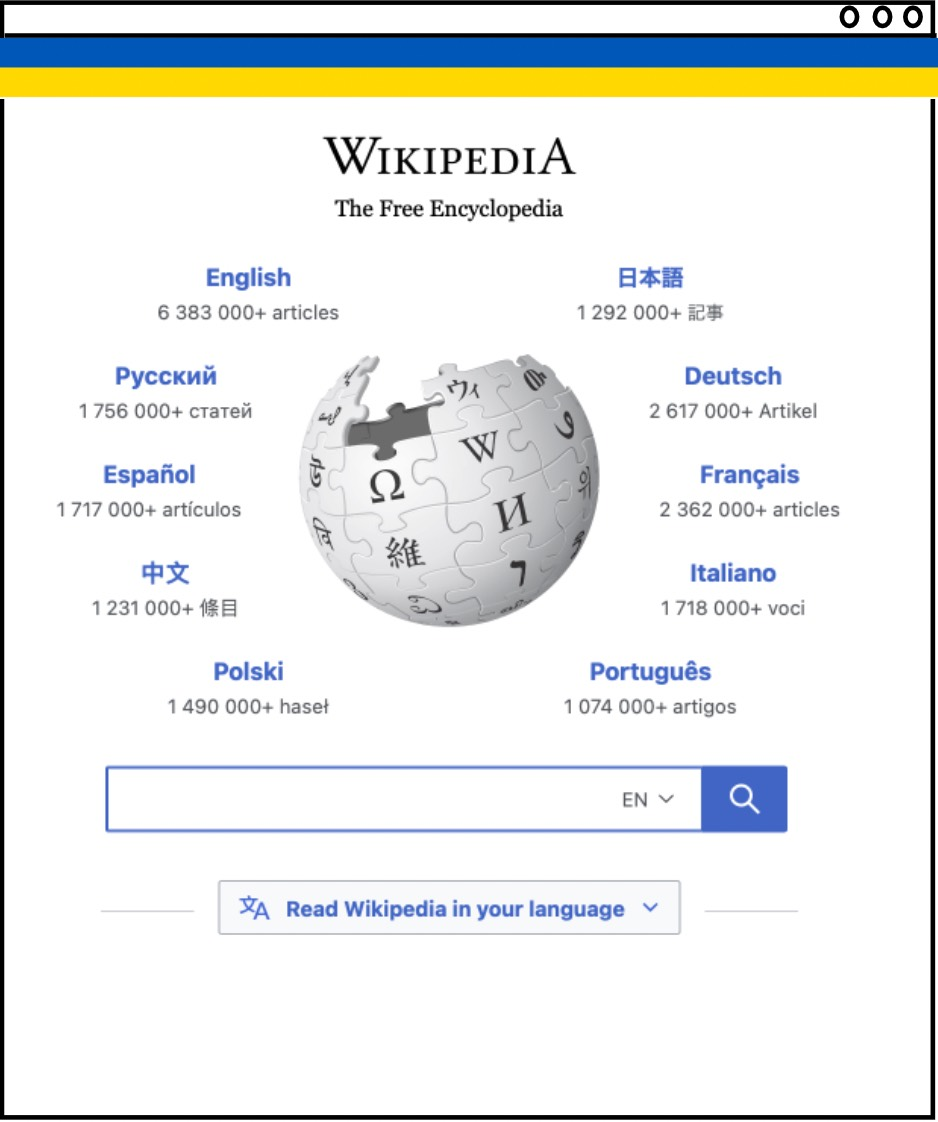
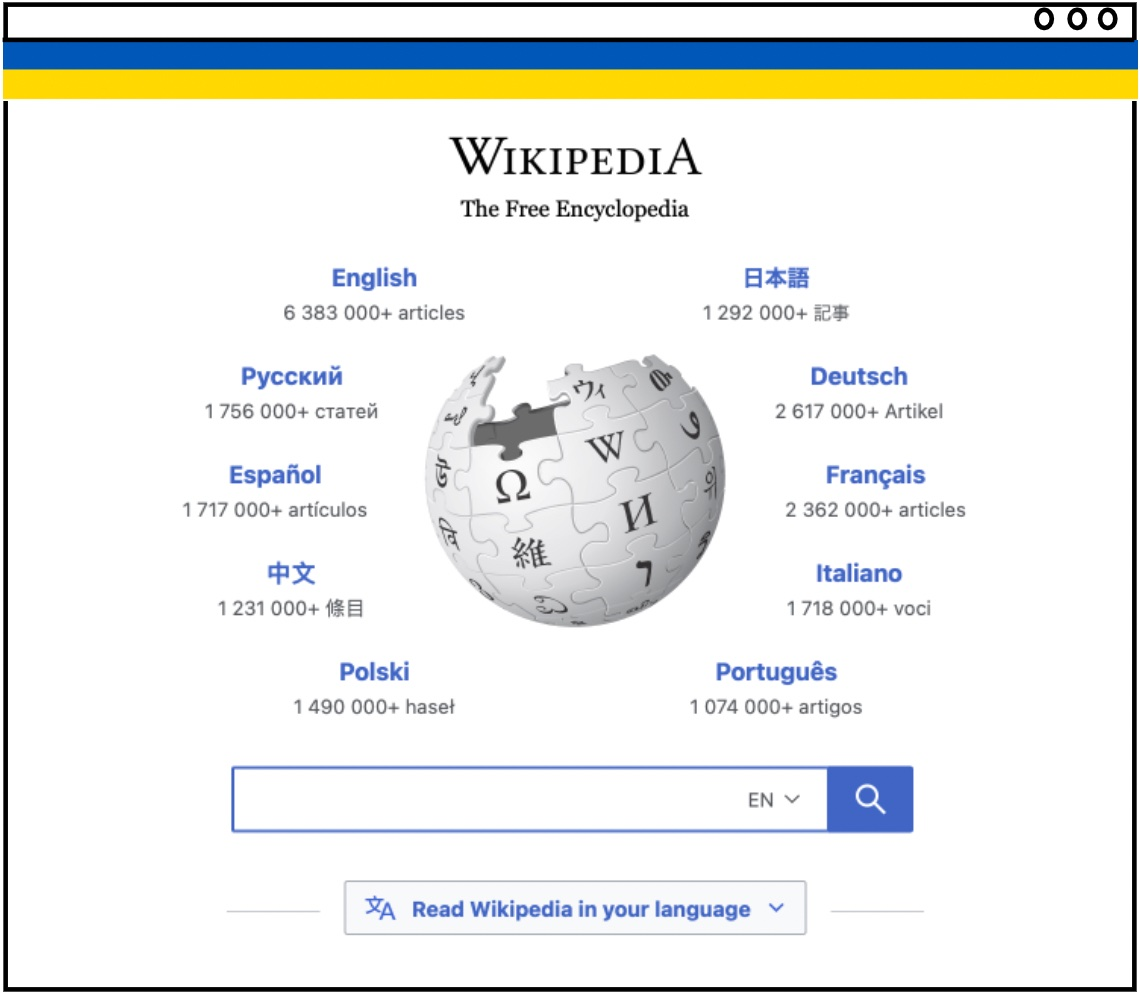
Changed picture

Changed region(s): [[0.0618, 0.2179, 0.8966, 0.8404], [0.0, 0.0, 1.0, 1.0], [0.3092, 0.9026, 0.7111, 0.9337]]

diff --git a/README.md b/README.md
@@ -2,7 +2,7 @@
 
 The flag of Ukraine (Ukrainian: Прапор України, romanized: Prapor Ukrainy) consists of equally sized horizontal bands of blue and yellow. The combination of blue and yellow as a symbol of Ukraine comes from the flag of the Kingdom of Galicia–Volhynia used in the 12th century.
 
-<img width="600" src="./img/demo.jpg" alt="Widget on your page" title="Containers topology" />
+<img width="800" src="./img/demo.jpg" alt="Widget on your page" title="Containers topology" />
 
 Add a banner to your web page and publicly show support and recognition to the people of Ukraine: millions of refugees, hundreds of thousands of military personnel, thousands injured and killed.
 
